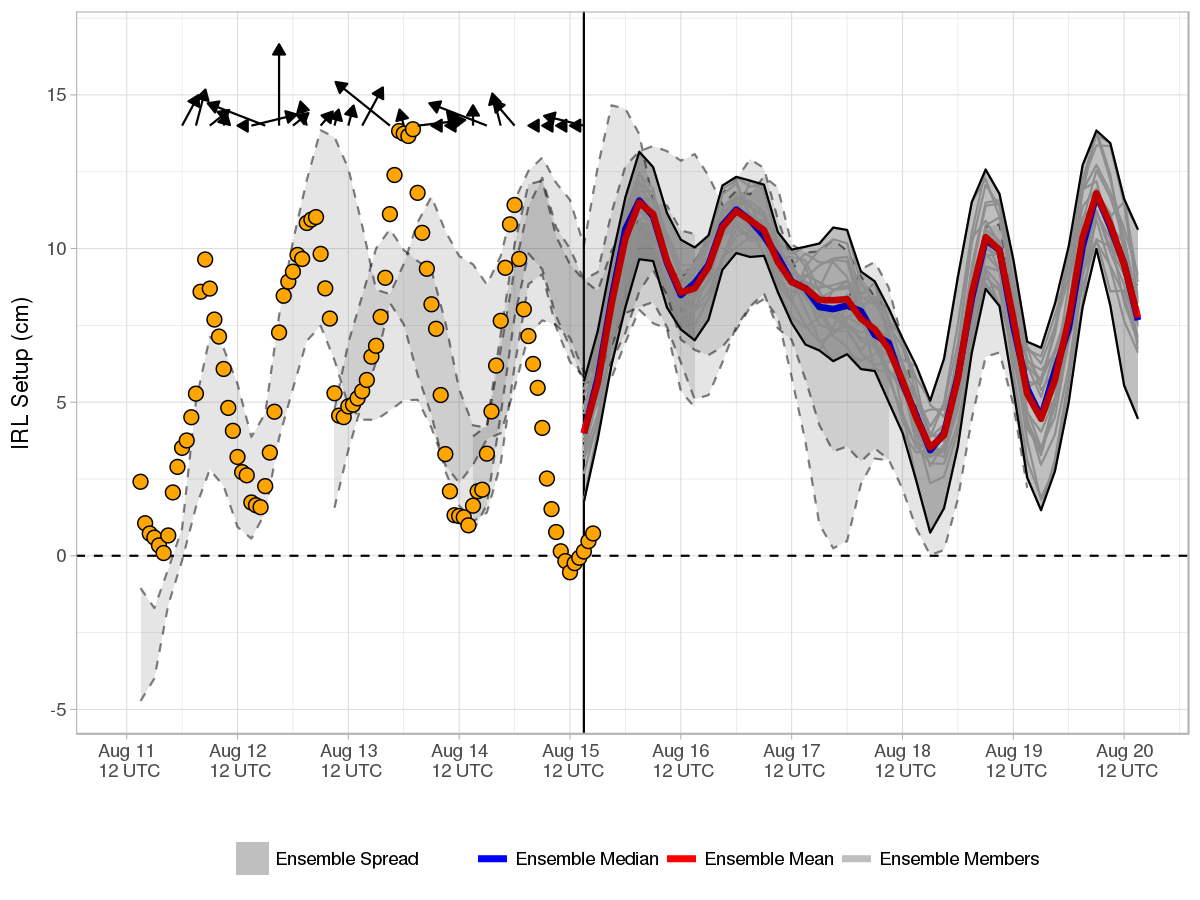
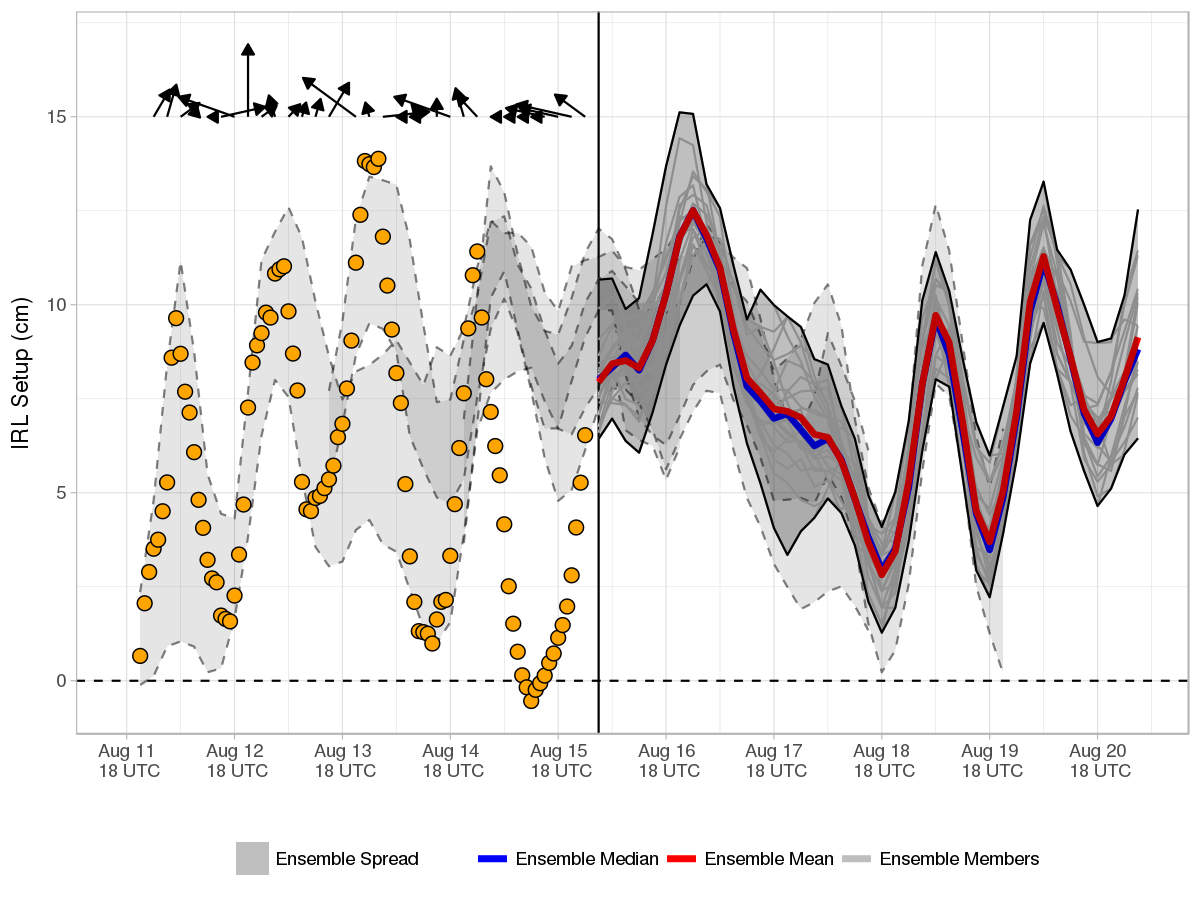
Forecast Update

diff --git a/docs/index.md b/docs/index.md
@@ -1,9 +1,9 @@
-Current Forecast 2018-08-15, Cycle 12UTC
+Current Forecast 2018-08-15, Cycle 18UTC
 ----------------------------------------
 
 [![](img/raw_setup.png)](https://fit-winds.github.io/IRLSetup/img/raw_setup.png)
 
-> Forecast valid 2018-08-15 13:44:56.
+> Forecast valid 2018-08-15 20:21:50.
 
 Explanation
 -----------
@@ -17,7 +17,7 @@ star), and Sebastian, FL (white star). In general, southerly (northerly)
 winds result in increased water elevation near Titusville (Sebastian)
 and positive (negative) setup.
 
-The current cycle 2018-08-15 12UTC 0.5° [Global Ensemble Forecast System
+The current cycle 2018-08-15 18UTC 0.5° [Global Ensemble Forecast System
 (GEFS)](https://www.ncdc.noaa.gov/data-access/model-data/model-datasets/global-ensemble-forecast-system-gefs)
 mean and median forecasts of setup are represented by the red and blue
 curves, respectively. Ensemble spread from the current and three
